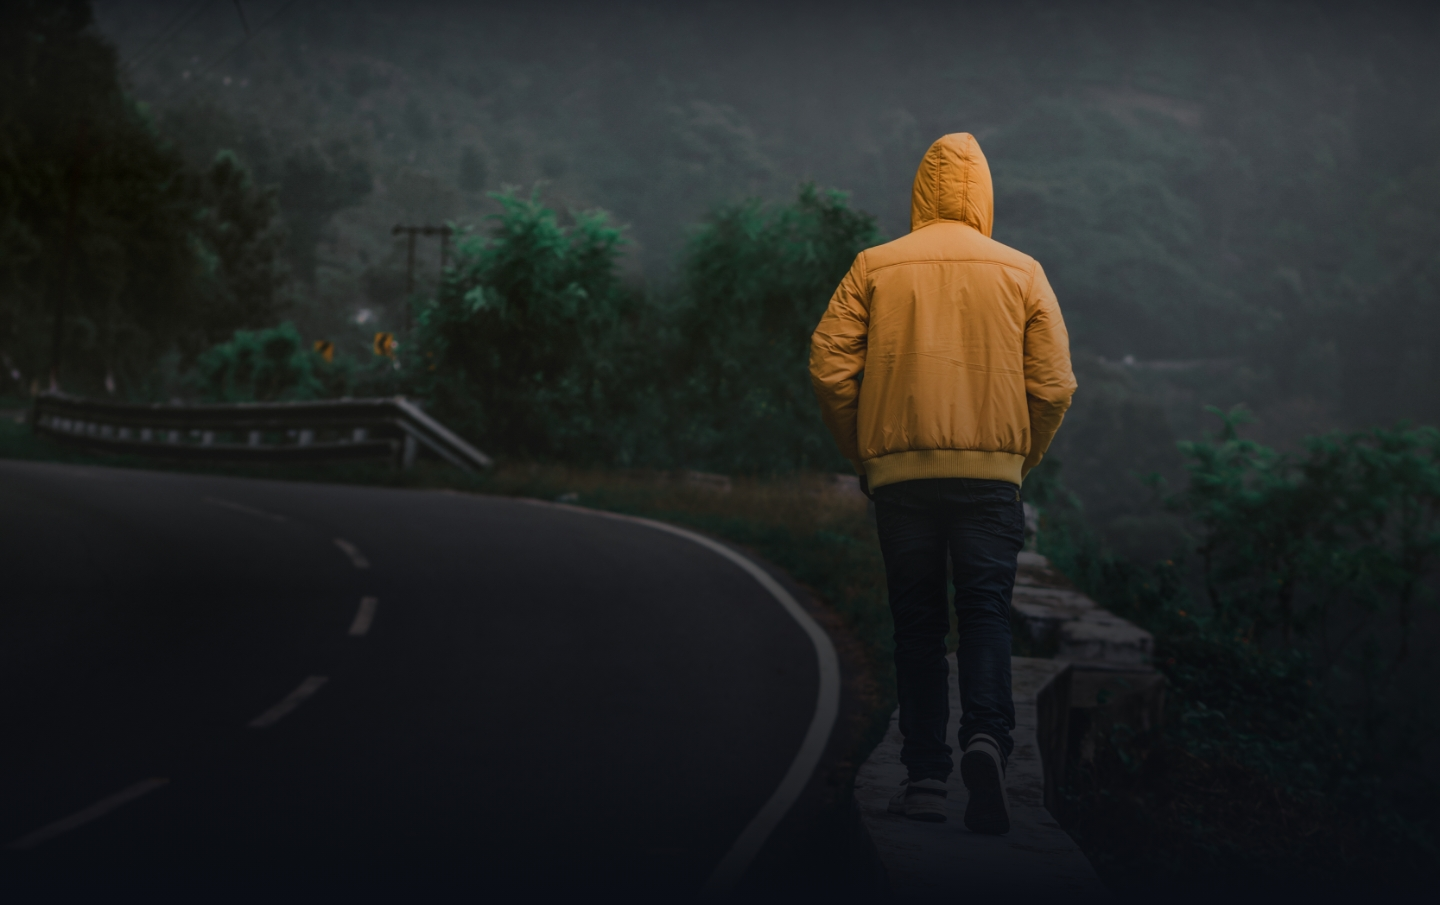
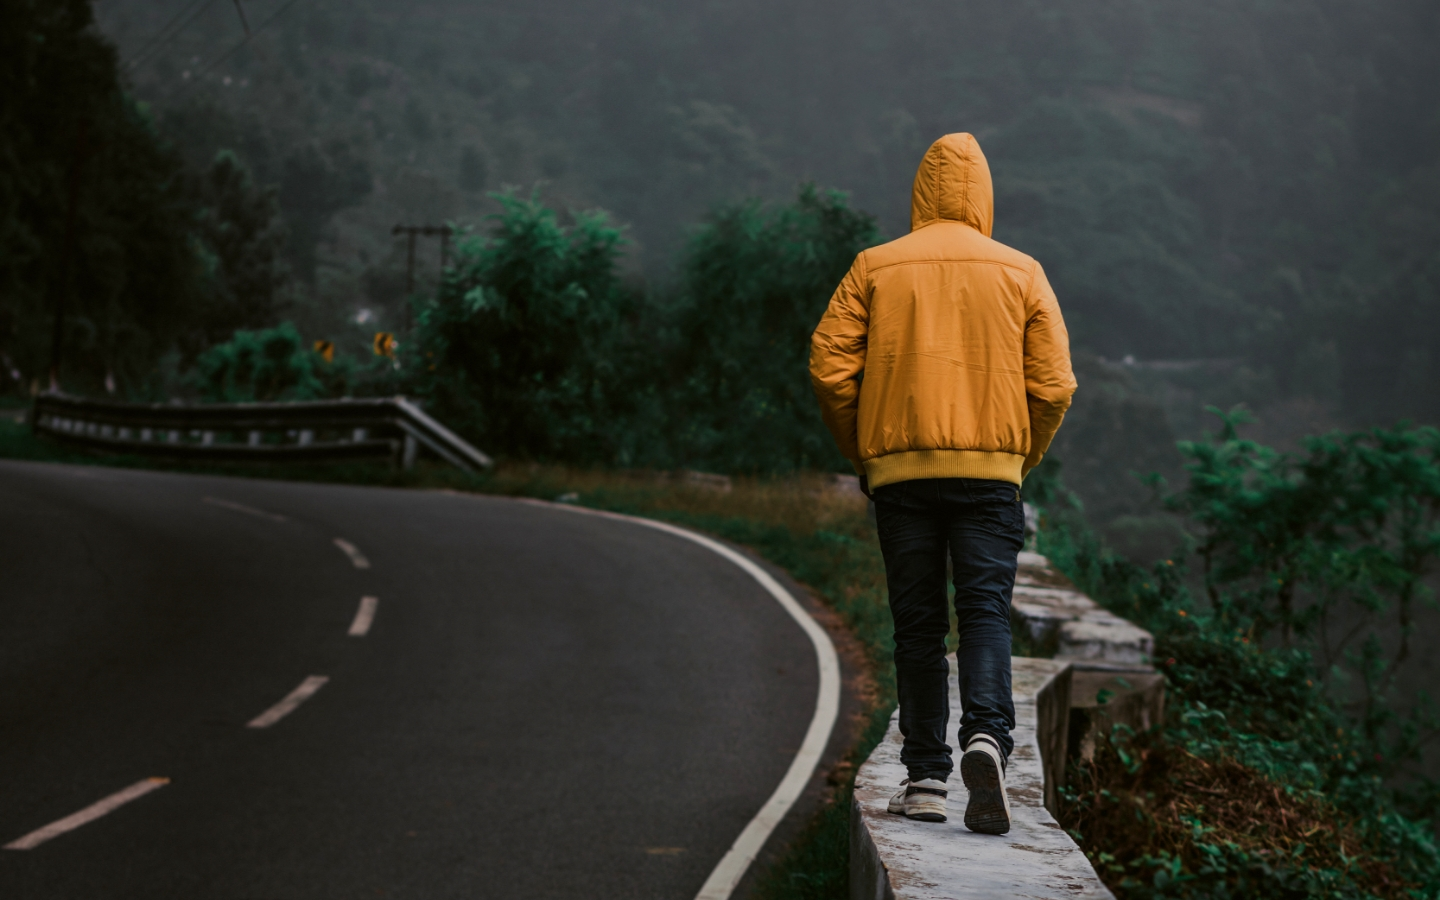
1440+ done

diff --git a/src/scss/blocks/_header.scss b/src/scss/blocks/_header.scss
@@ -1,9 +1,17 @@
 .header-banner-container {
-	max-width: 1600px;
-	min-height: 818px;
-	background-image: url('../img/ban/ban.jpg');
+	background-image: linear-gradient(
+			rgba($color: #0a0d13, $alpha: 0.54) 0%,
+			#4e505500 15%,
+			rgba($color: #0a0d13, $alpha: 0.65) 65%,
+			#0a0d13 100%
+		),
+		url('../img/ban/ban.jpg');
 	background-repeat: no-repeat;
 	background-size: cover;
+	// mask-image: url('../img/ban/banner-filter.png');
+	// mask-size: cover;
+	// mask-repeat: no-repeat;
+	// mask-position: center;
 }
 
 .header {
@@ -48,7 +56,25 @@
 }
 .menu-item {
 	position: relative;
+
 	&--active {
+		color: var(--color-orange-dark);
+		font-weight: 700;
+
+		&::after {
+			position: absolute;
+			left: -32px;
+			right: -32px;
+			margin: 0 auto;
+			bottom: -35px;
+			background-color: var(--color-orange-dark);
+			content: '';
+			display: block;
+			width: 80px;
+			height: 2px;
+		}
+	}
+	&:hover {
 		color: var(--color-orange);
 		&::after {
 			position: absolute;
@@ -60,7 +86,7 @@
 			content: '';
 			display: block;
 			width: 80px;
-			height: 2px;
+			height: 1px;
 		}
 	}
 }
